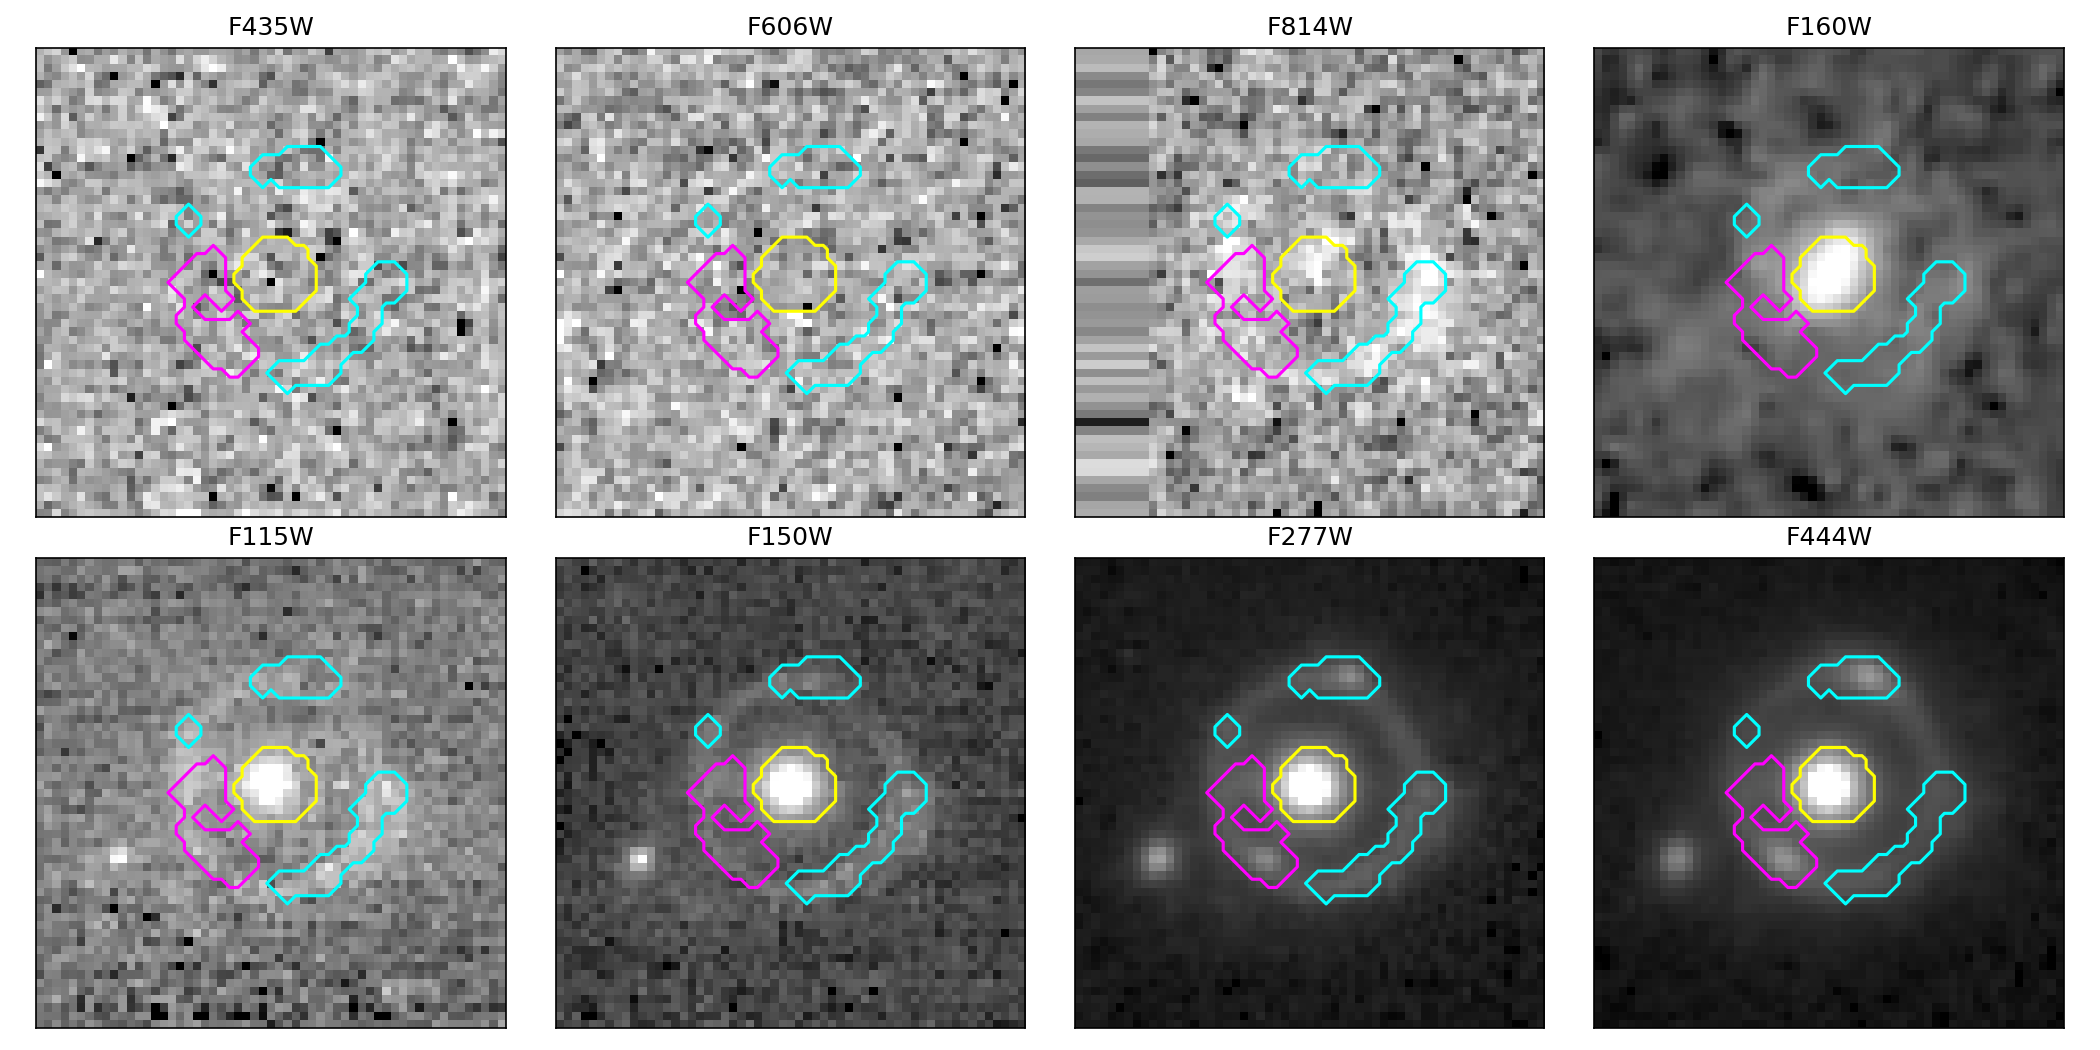
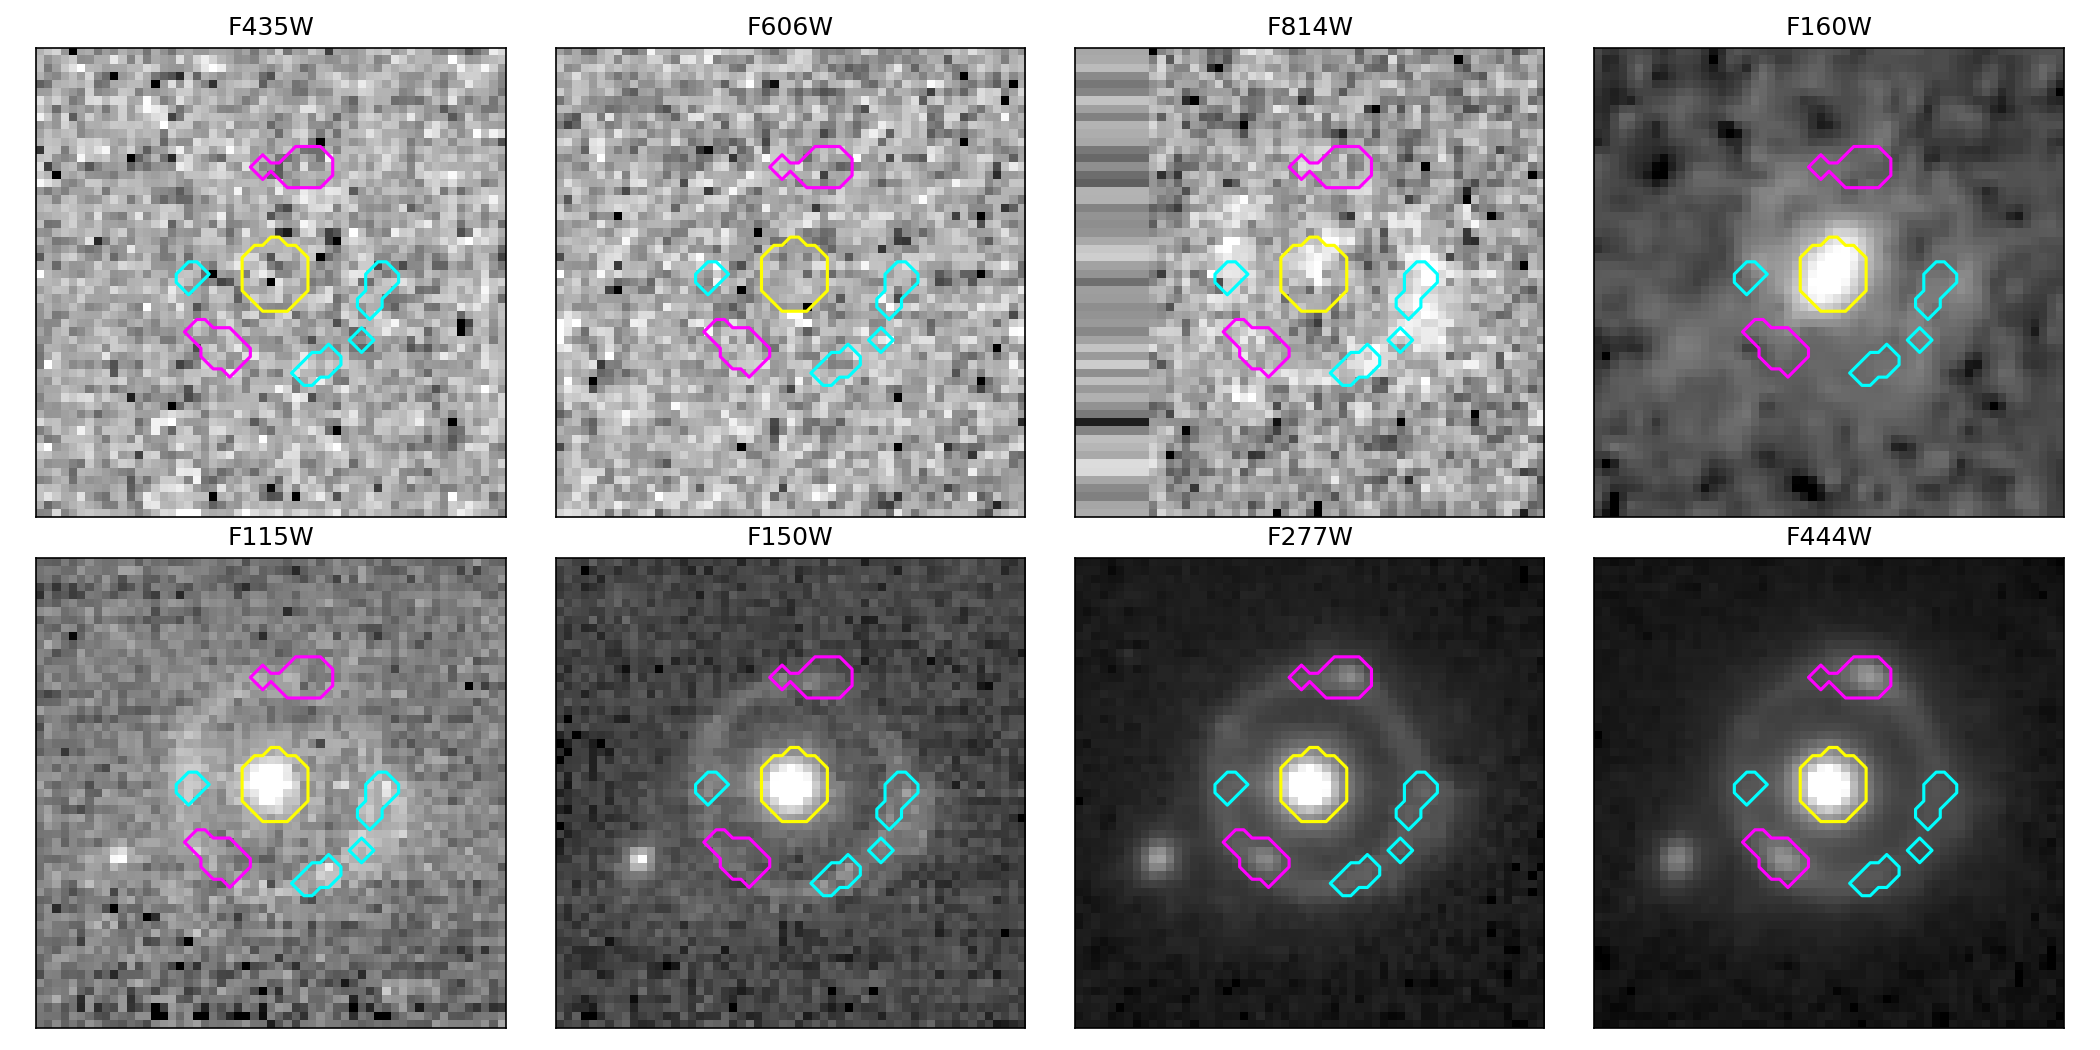
updated fig

diff --git a/scripts/plot_mask_all_filters.py b/scripts/plot_mask_all_filters.py
@@ -22,9 +22,9 @@ center_dec =   1.893035
 region_width_deg = 0.001
 half_width_deg   = region_width_deg / 2.0
 
-r_lens_arcsec       = 0.30
-r_ring_inner_arcsec = 0.45
-r_ring_outer_arcsec = 1.10
+r_lens_arcsec       = 0.27
+r_ring_inner_arcsec = 0.6
+r_ring_outer_arcsec = 1.0
 
 ref_filter = "F277W"
 
